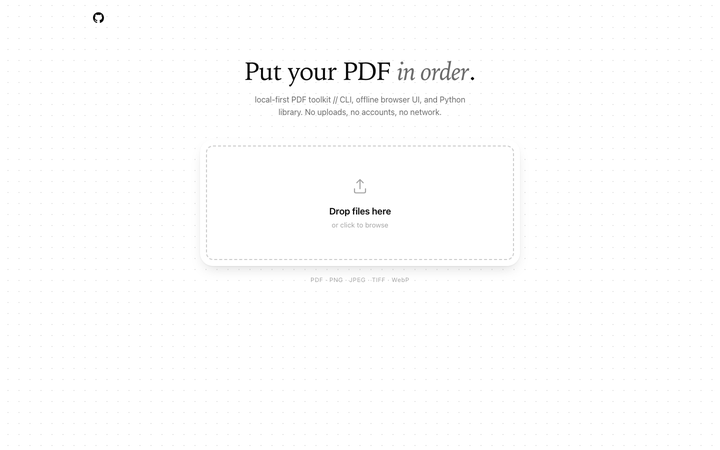
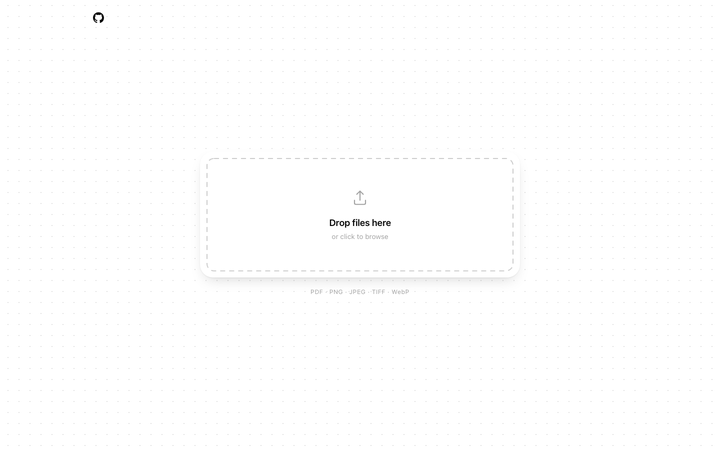
Strip the landing to the drop card, and make its frame march
The empty screen is now just the card, centred in what the header leaves
behind. The headline and standfirst are gone; a visually hidden h1 keeps the
document outline intact for screen readers, since a page with no heading at
all is worse for them than one with a heading they cannot see.

The dashed frame moved from a CSS outline to an SVG rect, because an outline
cannot animate its dashes. On drag the card now stays white and the frame
turns black and travels around the path — offsetting by exactly one dash
period (10 + 8) so the loop is seamless — while "or click to browse" fades
out, since clicking is not the thing to do while a file is over the page.

Two sizing details worth recording:

- An <svg> with no viewBox is a replaced element with an intrinsic 300x150
  size, so `inset: 14px` alone left the frame floating at default size in the
  corner of the card. The box has to be stated outright.
- The landing's min-height is what centres the card, so it has to match the
  header and the body's bottom padding exactly. Measured at three viewport
  sizes: the card now sits within 10px of centre with no scrollbar.

Claude-Session: https://claude.ai/code/session_01JQv7NKj7n1Bv8psLWd5f2F

Changed region(s): [[0.3361, 0.1244, 0.6722, 0.28], [0.3056, 0.5911, 0.7028, 0.6533], [0.4583, 0.4044, 0.55, 0.5289]]

diff --git a/src/recto/web/static/styles.css b/src/recto/web/static/styles.css
@@ -68,6 +68,17 @@ body {
 
 .hidden { display: none !important; }
 
+/* Present to assistive technology, absent from the layout. */
+.sr-only {
+  position: absolute;
+  width: 1px; height: 1px;
+  margin: -1px; padding: 0;
+  overflow: hidden;
+  clip-path: inset(50%);
+  white-space: nowrap;
+  border: 0;
+}
+
 /* ─────────────────────────────────────────────────────────────── header ── */
 
 .masthead {
@@ -135,32 +146,24 @@ body {
 
 /* ────────────────────────────────────────────────────────── empty state ── */
 
+/* With no heading or standfirst left, the card is the whole screen's
+   content — so it sits in the middle of what remains below the header. */
 .landing {
   max-width: 640px;
-  margin: clamp(1rem, 6vh, 4rem) auto 0;
+  width: 100%;
+  margin: 0 auto;
+  /* Fill what the header and the body's bottom padding leave behind, so the
+     card group lands in the optical centre of the window. */
+  min-height: calc(100vh - 7.9rem);
+  display: grid;
+  align-content: center;
+  justify-items: center;
   text-align: center;
 }
 
-.display {
-  font-family: var(--serif);
-  font-weight: 400;
-  font-size: clamp(2.1rem, 5.4vw, 3.15rem);
-  line-height: 1.1;
-  letter-spacing: -.022em;
-  margin: 0 0 1rem;
-}
-
-.display em { font-style: italic; color: var(--ink-2); }
-
-.lede {
-  max-width: 46ch;
-  margin: 0 auto 2.6rem;
-  color: var(--ink-2);
-  font-size: 1rem;
-  line-height: 1.6;
-}
-
 .dropcard {
+  position: relative;
+  width: 100%;
   display: grid;
   place-items: center;
   gap: .2rem;
@@ -169,32 +172,57 @@ body {
   border-radius: var(--r-lg);
   box-shadow: var(--shadow-md);
   cursor: pointer;
-  /* The dashed frame is always visible: it is what tells you the card takes a
-     drop, so it should not wait for a hover that a dragging cursor never
-     produces. */
-  outline: 2px dashed var(--line-strong);
-  outline-offset: -14px;
-  transition: background .18s ease, outline-color .18s ease, box-shadow .18s ease;
+  outline: none;
+  transition: box-shadow .18s ease;
+}
+
+/* The dashed frame, inset inside the card. `overflow: visible` keeps the
+   outer half of the stroke from being clipped by the SVG viewport. */
+.dropframe {
+  position: absolute;
+  top: 14px;
+  left: 14px;
+  /* An <svg> with no viewBox is a replaced element with an intrinsic 300x150
+     size, and `inset` alone will not stretch it — the box has to be stated. */
+  width: calc(100% - 28px);
+  height: calc(100% - 28px);
+  overflow: visible;
+  pointer-events: none;
+}
+
+.dropframe rect {
+  fill: none;
+  stroke: var(--line-strong);
+  stroke-width: 2;
+  stroke-dasharray: 10 8;
+  transition: stroke .18s ease;
 }
 
 /* Keyboard focus still needs a marker; pointer hover deliberately has none. */
-.dropcard:focus-visible { outline-color: var(--accent); box-shadow: var(--shadow-lg); }
+.dropcard:focus-visible .dropframe rect { stroke: var(--accent); }
 
-/* Dragging a file over the page fills the card and lifts it off the ground,
-   so the target is unmistakable at a glance. */
-.dropcard.dragging {
-  background: var(--accent);
-  outline-color: rgba(255, 255, 255, .55);
-  box-shadow: var(--shadow-lg), 0 0 0 8px rgba(10, 10, 10, .07);
+/* Dragging a file over the page: the card stays white, the frame turns black
+   and its dashes travel around the path. Offsetting by exactly one dash
+   period (10 + 8) makes the loop seamless. */
+.dropcard.dragging .dropframe rect {
+  stroke: var(--accent);
+  animation: march 700ms linear infinite;
 }
 
-.dropcard.dragging .dropcard-title { color: var(--on-accent); }
-.dropcard.dragging .dropcard-sub { color: rgba(255, 255, 255, .62); }
-.dropcard.dragging .dropcard-glyph { color: rgba(255, 255, 255, .8); }
+@keyframes march {
+  to { stroke-dashoffset: -18; }
+}
+
+.dropcard.dragging { box-shadow: var(--shadow-lg); }
+.dropcard.dragging .dropcard-glyph { color: var(--ink); }
+
+/* One instruction at a time: while a file is over the page, clicking to
+   browse is not the thing to do. */
+.dropcard.dragging .dropcard-sub { opacity: 0; }
 
 .dropcard-glyph { width: 44px; height: 44px; color: var(--ink-3); margin-bottom: .7rem; }
 .dropcard-title { margin: 0; font-size: 1.16rem; font-weight: 600; letter-spacing: -.01em; }
-.dropcard-sub { margin: 0; color: var(--ink-3); font-size: .87rem; }
+.dropcard-sub { margin: 0; color: var(--ink-3); font-size: .87rem; transition: opacity .18s ease; }
 
 .formats {
   margin: 1.2rem 0 0;
@@ -691,6 +719,7 @@ body {
 
 @media (max-width: 620px) {
   .masthead { padding-top: .8rem; min-height: 2.6rem; }
+  .landing { min-height: calc(100vh - 7.6rem); }
   .console { position: static; }
   .panel { padding: 1.1rem 1.1rem 1.2rem; }
   .fields { grid-template-columns: 1fr; }

diff --git a/src/recto/web/static/index.html b/src/recto/web/static/index.html
@@ -23,14 +23,17 @@
 
   <!-- ─────────────────────────────────────────────────────── empty state -->
   <section id="landing" class="landing">
-    <h1 class="display">Put your PDF <em>in order</em>.</h1>
-    <p class="lede">
-      local-first PDF toolkit // CLI, offline browser UI, and Python library.
-      No uploads, no accounts, no network.
-    </p>
+    <!-- The page shows no heading, but the document still needs one. -->
+    <h1 class="sr-only">Recto — a local-first PDF toolkit</h1>
 
     <div id="dropcard" class="dropcard" tabindex="0" role="button"
          aria-label="Drop files here, or press Enter to browse">
+      <!-- The dashed frame is an SVG rather than a CSS outline so its dashes
+           can travel around the path: only stroke-dashoffset animates. -->
+      <svg class="dropframe" aria-hidden="true">
+        <rect width="100%" height="100%" rx="14" />
+      </svg>
+
       <svg class="dropcard-glyph" viewBox="0 0 48 48" aria-hidden="true">
         <path d="M12 30v6a3 3 0 0 0 3 3h18a3 3 0 0 0 3-3v-6" fill="none"
               stroke="currentColor" stroke-width="2.4" stroke-linecap="round"/>
